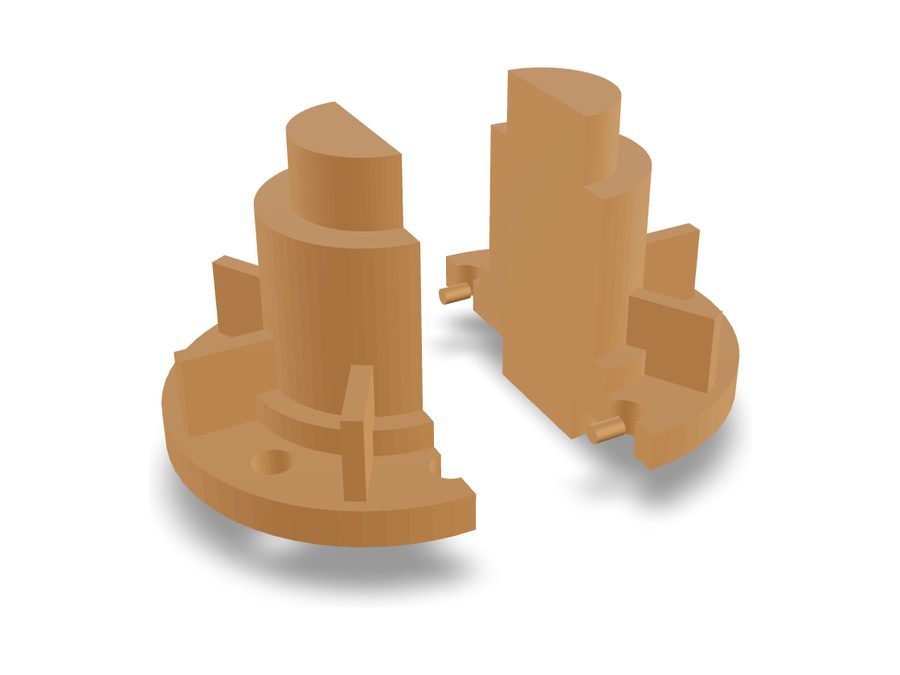
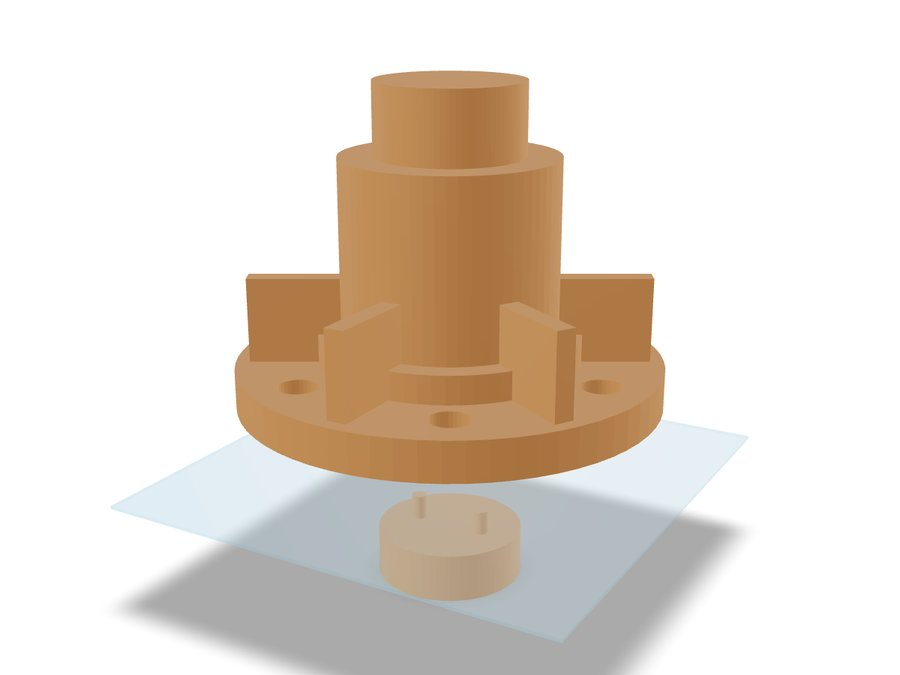
Paso 3: partición correcta en el plano de la brida, modelo entero y portada de abajo suelta
Claude-Session: https://claude.ai/code/session_01RETRZbByLDBrHMoqLANW5p

diff --git a/index.html b/index.html
@@ -366,7 +366,7 @@ footer img{height:34px;width:auto}
       <ol class="steps">
         <li><img src="img/plano.svg" alt="Plano de una brida con vista frontal y superior" loading="lazy"><div class="t"><h3>Nos trae la pieza o la idea</h3><p>Plano, croquis, fotos o la pieza original, aunque esté rota. Si no hay plano ni modelo, lo dibujamos con usted.</p></div></li>
         <li><img src="img/b_cad.jpg" alt="Brida dibujada en 3D" loading="lazy"><div class="t"><h3>La dibujamos en 3D</h3><p>En SolidWorks o Inventor. Usted ve y aprueba la pieza, y le pasamos presupuesto y plazo.</p></div></li>
-        <li><img src="img/b_partido.jpg" alt="Modelo partido en dos mitades con espigas de centrado" loading="lazy"><span class="badge">+3,7 %</span><div class="t"><h3>Diseñamos el modelo</h3><p>Lo partimos por el plano de partición, con portadas, ángulos de salida, espigas y la contracción del metal.</p></div></li>
+        <li><img src="img/b_partido.jpg?v=2" alt="Modelo entero parado sobre el plano de partición, con la portada de abajo suelta y sus espigas" loading="lazy"><span class="badge">+3,7 %</span><div class="t"><h3>Diseñamos el modelo</h3><p>Elegimos el plano de partición: en esta brida, la cara plana de abajo. El modelo va entero y la portada de abajo, aparte con espigas. Le damos ángulos de salida y la contracción del metal.</p></div></li>
         <li><img src="img/b_noyo.jpg" alt="Caja de noyo abierta y noyo de arena" loading="lazy"><div class="t"><h3>Caja de noyo</h3><p>Forma el noyo de los huecos interiores. En madera de calidad o fundición mecanizada, para una buena terminación final.</p></div></li>
         <li><img src="img/b_madera.jpg" alt="Modelo de la brida en madera" loading="lazy"><div class="t"><h3>Fabricamos el modelo</h3><p>En madera, aluminio, resina epoxi, telgopor o impreso en 3D, según la pieza, la cantidad y el plazo.</p></div></li>
         <li><img src="img/b_terminado.jpg" alt="Modelo terminado, laqueado y con las portadas pintadas de negro" loading="lazy"><div class="t"><h3>Terminación y control</h3><p>Lijado, masillado, laca y portadas en negro. Control de medidas de alta precisión.</p></div></li>
